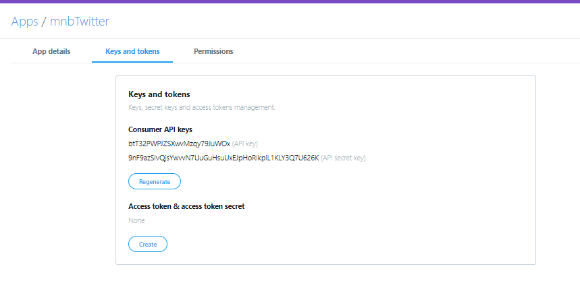
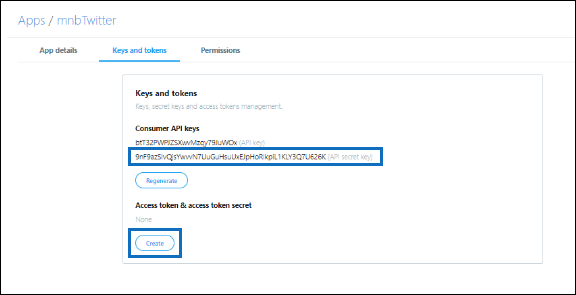
update twitter app procedure

diff --git a/SecurityCompliance/deploy-twitter-connector.md b/SecurityCompliance/deploy-twitter-connector.md
@@ -208,39 +208,44 @@ Download the prebuilt package from the Release section in the GitHub repository 
 
 ## Step 5: Create the Twitter app
 
-1. Go to https://developer.twitter.com, log in using the credentials for the developer account for your organization, and then click **Create an app**.
+1. Go to https://developer.twitter.com, log in using the credentials for the developer account for your organization, and then click **Apps**.
 
-2.  Add a new application.
-
+   ![TCimage25-5.png](media/TCimage25-5.png)
+2. Click **Create an app**.
+   
    ![](media/TCimage26.png)
 
 3. Under **App details**, add information about the application.
 
    ![](media/TCimage27.png)
 
-4. On the Twitter developer dashboard, click **Details** for the app you just created.
+4. On the Twitter developer dashboard, select the app that you just created and copy the App ID that's displayed  and save it to a text file or other storage location. Then click **Details**.
+   
    ![](media/TCimage28.png)
 
-5. On the **Keys and tokens** tab, under **Access token & access token secret**, click **Create** to generate Access Token
-
+5. On the **Keys and tokens** tab, under **Consumer API keys** copy the API secret key and save it to a text file or other storage location. Then click **Create** to generate an access token and an access token secret, and copy these to a text file or other storage location.
+   
    ![](media/TCimage29.png)
 
-6. On the **Permissions** tab, configure the permissions as shown in the following screenshot. 
+   Then click **Create** to generate an access token and an access token secret, and copy these to a text file or other storage location.
+
+6. Click the **Permissions** tab and configure the permissions as shown in the following screenshot:
 
    ![](media/TCimage30.png)
 
-7. Add OAuth redirect URI \<connectorserviceuri/Views/TwitterOAuth\>
+7. After you save the permission settings, click the **App details** tab, and then click **Edit > Edit details**.
 
    ![](media/TCimage31.png)
 
-8. Select Edit Details. Update Callback Url in Callback URLs Section and Save
+8. Add the OAuth redirect Uri using the following format: \<connectorserviceuri/Views/TwitterOAuth\>, where the value of connectorserviceuri is 
+
+   Also update the Callback URLs and then click **Save**.
 
    ![](media/TCimage32.png)
 
-9. 
-Your Developer App is now ready to use
+The Twitter developer app is now ready to use.
 
-## Step 6: Configure the connector web app
+## Step 6: Configure the connector web app 
 
 1. Go to https://\<AzureAppResourceName>.azurewebsites.net (where AzureAppResourceName is the name of your Azure app resource that you named in Step 4) For example, if the name is **twitterconnector**, go to https://twitterconnector.azurewebsites.net. The home page of the app will look like the following screenshot.
 
@@ -257,10 +262,10 @@ Your Developer App is now ready to use
 
 4. Under **Configuration Details**, enter the following configuration settings 
 
-   - **Twitter application ID** - The app ID for the Twitter application that you obtained in Step 5.
-   - **Twitter application secret** - The app secret for the Twitter application that you obtained in Step 5.
-   - **Twitter client token** - The verify token that you created in Step 5.
-   - **Twitter client token secret** - The application ID for the Azure Active Directory app that you created in Step 2
+   - **Twitter application ID** - The app ID for the Twitter application that you created in Step 5.
+   - **Twitter application secret** - The API secret key for the Twitter application that you created in Step 5.
+   - **Twitter client token** - The access token that you created in Step 5.
+   - **Twitter client token secret** - The access token secret that you created in Step 5.
    - **AAD application ID** - The application ID for the Azure Active Directory app that you created in Step 2
    - **AAD application secret** - The value for the APISecretKey secret that you created in Step 4.
    - **AAD application Uri** - The AAD application Uri obtained in Step 2; for example, https://microsoft.onmicrosoft.com/2688yu6n-12q3-23we-e3ee-121111123213.

diff --git a/SecurityCompliance/archive-twitter-data-with-sample-connector.md b/SecurityCompliance/archive-twitter-data-with-sample-connector.md
@@ -97,8 +97,9 @@ For step-by-step instructions, see [Step 5: Create the Twitter app](deploy-twitt
 During the completion of this step (by following the step-by-step instructions), you'll save the following information to a text file. The values for these will be used to configure the Twitter connector app in Step 6.
 
 - Twitter application ID
-- Twitter application secret
-- Twitter webhooks verify token
+- Twitter application secret (API secret key)
+- Twitter client token
+- Twitter client token secret
 
 ## Step 6: Configure the Twitter connector app
 
@@ -110,7 +111,8 @@ During the completion of this step (by following the step-by-step instructions),
 
 - Twitter application ID (obtained in Step 5)
 - Twitter application secret (obtained in Step 5)
-- Twitter webhooks verify token (obtained in Step 5)
+- Twitter client token (obtained in Step 5)
+- Twitter client token secret (obtained in Step 5)
 - Azure Active Directory application ID (the AAD application ID obtained in Step 2)
 - Azure Active Directory application secret (the AAD application secret obtained in Step 2)
 - Azure Active Directory application Uri (the AAD application Uri obtained in Step 2; for example, https://microsoft.onmicrosoft.com/2688yu6n-12q3-23we-e3ee-121111123213)
